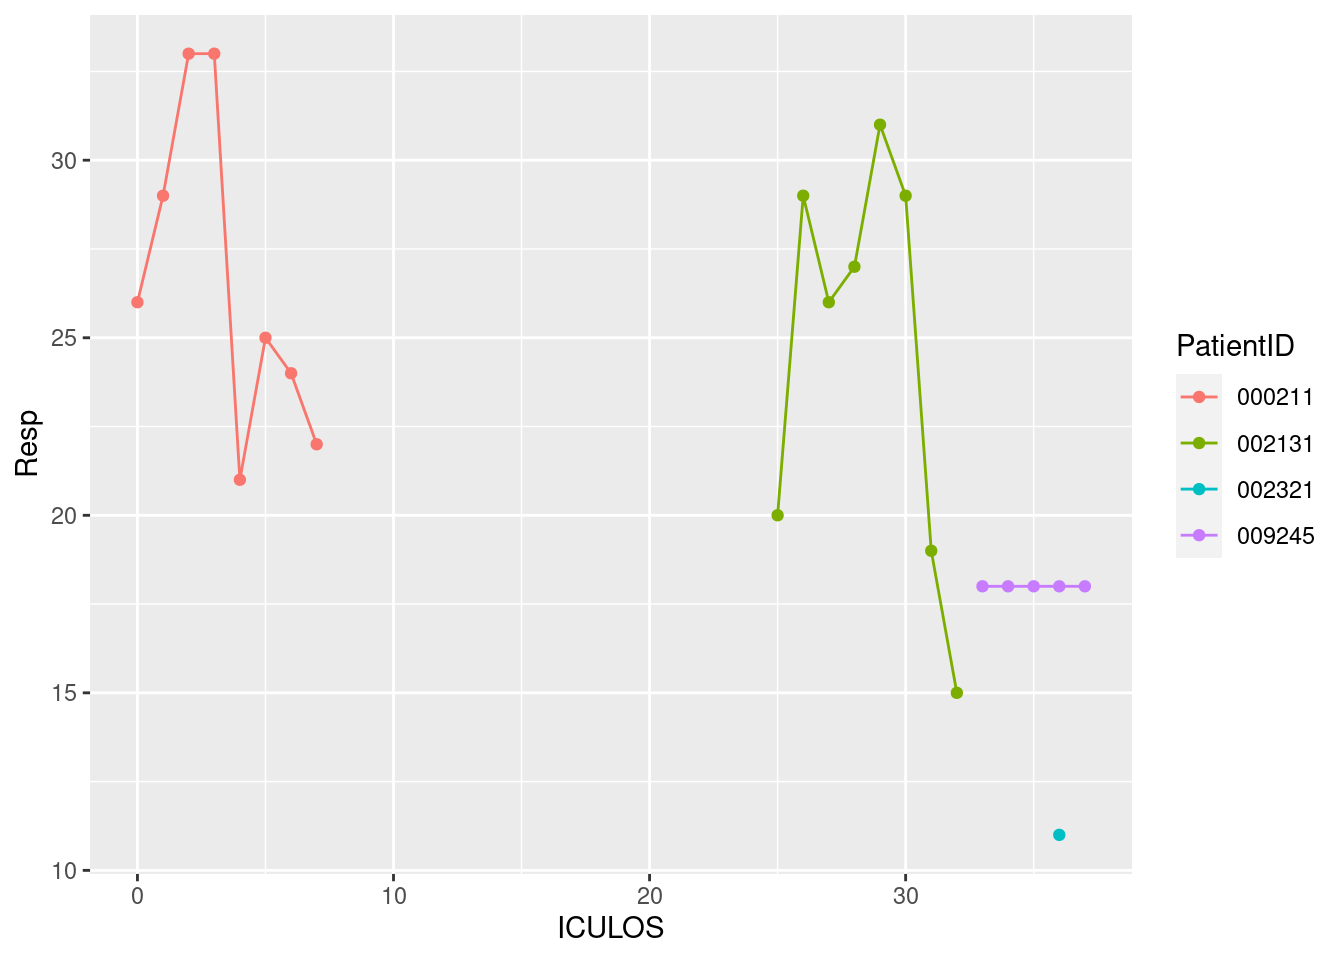
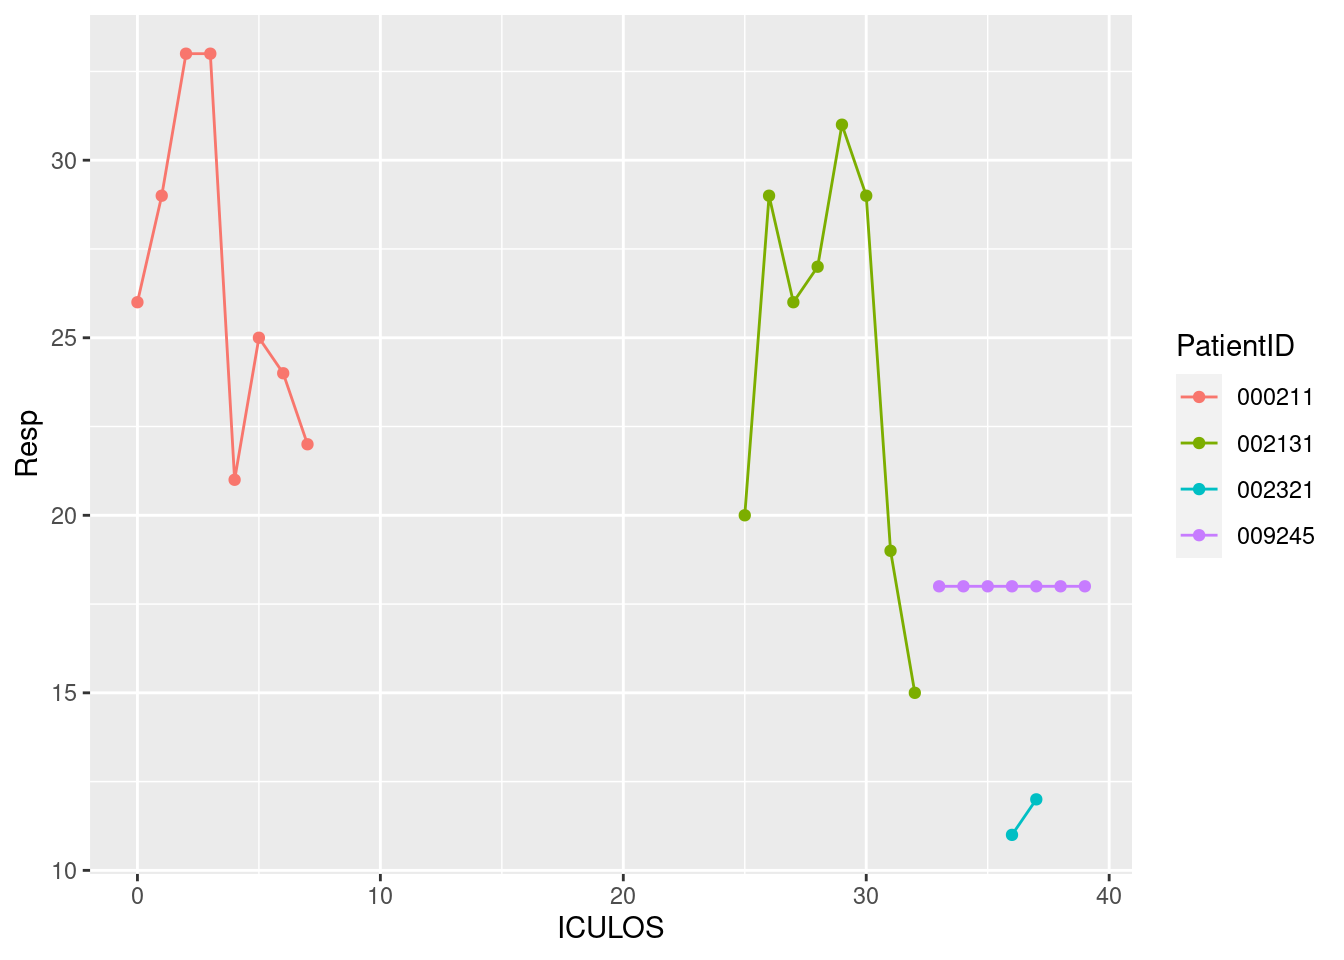
Updated report

diff --git a/a7qmd.html b/a7qmd.html
@@ -80,7 +80,7 @@ ul.task-list li input[type="checkbox"] {
 <h2 class="anchored" data-anchor-id="current-date-and-time">Current date and time</h2>
 <div class="cell">
 <div class="cell-output cell-output-stdout">
-<pre><code>[1] "2023-04-11 09:16:29 UTC"</code></pre>
+<pre><code>[1] "2023-04-11 10:17:58 UTC"</code></pre>
 </div>
 </div>
 </section>
@@ -112,13 +112,13 @@ ul.task-list li input[type="checkbox"] {
 </tr>
 <tr class="odd">
 <td style="text-align: left;">002321</td>
-<td style="text-align: right;">57</td>
+<td style="text-align: right;">61</td>
 <td style="text-align: right;">NA</td>
-<td style="text-align: right;">11</td>
+<td style="text-align: right;">12</td>
 </tr>
 <tr class="even">
 <td style="text-align: left;">009245</td>
-<td style="text-align: right;">80</td>
+<td style="text-align: right;">83</td>
 <td style="text-align: right;">NA</td>
 <td style="text-align: right;">18</td>
 </tr>
@@ -187,15 +187,15 @@ ul.task-list li input[type="checkbox"] {
 </tr>
 <tr class="even">
 <td style="text-align: left;">000693</td>
-<td style="text-align: right;">0</td>
 <td style="text-align: right;">NA</td>
-<td style="text-align: right;">-8</td>
+<td style="text-align: right;">NA</td>
+<td style="text-align: right;">NA</td>
 </tr>
 <tr class="odd">
 <td style="text-align: left;">000878</td>
+<td style="text-align: right;">6</td>
+<td style="text-align: right;">0.0</td>
 <td style="text-align: right;">1</td>
-<td style="text-align: right;">-0.1</td>
-<td style="text-align: right;">-1</td>
 </tr>
 <tr class="even">
 <td style="text-align: left;">000939</td>
@@ -235,9 +235,9 @@ ul.task-list li input[type="checkbox"] {
 </tr>
 <tr class="even">
 <td style="text-align: left;">001842</td>
-<td style="text-align: right;">1</td>
+<td style="text-align: right;">9</td>
 <td style="text-align: right;">NA</td>
-<td style="text-align: right;">6</td>
+<td style="text-align: right;">1</td>
 </tr>
 <tr class="odd">
 <td style="text-align: left;">002131</td>
@@ -253,19 +253,19 @@ ul.task-list li input[type="checkbox"] {
 </tr>
 <tr class="odd">
 <td style="text-align: left;">002321</td>
-<td style="text-align: right;">3</td>
+<td style="text-align: right;">4</td>
 <td style="text-align: right;">NA</td>
-<td style="text-align: right;">-1</td>
+<td style="text-align: right;">1</td>
 </tr>
 <tr class="even">
 <td style="text-align: left;">002434</td>
 <td style="text-align: right;">0</td>
 <td style="text-align: right;">NA</td>
-<td style="text-align: right;">1</td>
+<td style="text-align: right;">-7</td>
 </tr>
 <tr class="odd">
 <td style="text-align: left;">002572</td>
-<td style="text-align: right;">11</td>
+<td style="text-align: right;">17</td>
 <td style="text-align: right;">NA</td>
 <td style="text-align: right;">1</td>
 </tr>
@@ -307,15 +307,15 @@ ul.task-list li input[type="checkbox"] {
 </tr>
 <tr class="even">
 <td style="text-align: left;">003777</td>
-<td style="text-align: right;">-5</td>
+<td style="text-align: right;">-4</td>
 <td style="text-align: right;">NA</td>
-<td style="text-align: right;">0</td>
+<td style="text-align: right;">-2</td>
 </tr>
 <tr class="odd">
 <td style="text-align: left;">004131</td>
-<td style="text-align: right;">-8</td>
+<td style="text-align: right;">6</td>
 <td style="text-align: right;">NA</td>
-<td style="text-align: right;">-9</td>
+<td style="text-align: right;">-1</td>
 </tr>
 <tr class="even">
 <td style="text-align: left;">004389</td>
@@ -367,9 +367,9 @@ ul.task-list li input[type="checkbox"] {
 </tr>
 <tr class="even">
 <td style="text-align: left;">007154</td>
-<td style="text-align: right;">1</td>
+<td style="text-align: right;">0</td>
 <td style="text-align: right;">NA</td>
-<td style="text-align: right;">2</td>
+<td style="text-align: right;">1</td>
 </tr>
 <tr class="odd">
 <td style="text-align: left;">007365</td>
@@ -379,9 +379,9 @@ ul.task-list li input[type="checkbox"] {
 </tr>
 <tr class="even">
 <td style="text-align: left;">008070</td>
-<td style="text-align: right;">-2</td>
+<td style="text-align: right;">-3</td>
 <td style="text-align: right;">NA</td>
-<td style="text-align: right;">-1</td>
+<td style="text-align: right;">1</td>
 </tr>
 <tr class="odd">
 <td style="text-align: left;">008496</td>
@@ -409,21 +409,21 @@ ul.task-list li input[type="checkbox"] {
 </tr>
 <tr class="odd">
 <td style="text-align: left;">008907</td>
-<td style="text-align: right;">18</td>
+<td style="text-align: right;">-8</td>
 <td style="text-align: right;">NA</td>
-<td style="text-align: right;">1</td>
+<td style="text-align: right;">0</td>
 </tr>
 <tr class="even">
 <td style="text-align: left;">008916</td>
+<td style="text-align: right;">4</td>
 <td style="text-align: right;">NA</td>
-<td style="text-align: right;">NA</td>
-<td style="text-align: right;">NA</td>
+<td style="text-align: right;">1</td>
 </tr>
 <tr class="odd">
 <td style="text-align: left;">009179</td>
-<td style="text-align: right;">0</td>
+<td style="text-align: right;">-2</td>
 <td style="text-align: right;">NA</td>
-<td style="text-align: right;">-1</td>
+<td style="text-align: right;">3</td>
 </tr>
 <tr class="even">
 <td style="text-align: left;">009185</td>
@@ -433,7 +433,7 @@ ul.task-list li input[type="checkbox"] {
 </tr>
 <tr class="odd">
 <td style="text-align: left;">009245</td>
-<td style="text-align: right;">NA</td>
+<td style="text-align: right;">1</td>
 <td style="text-align: right;">NA</td>
 <td style="text-align: right;">0</td>
 </tr>
